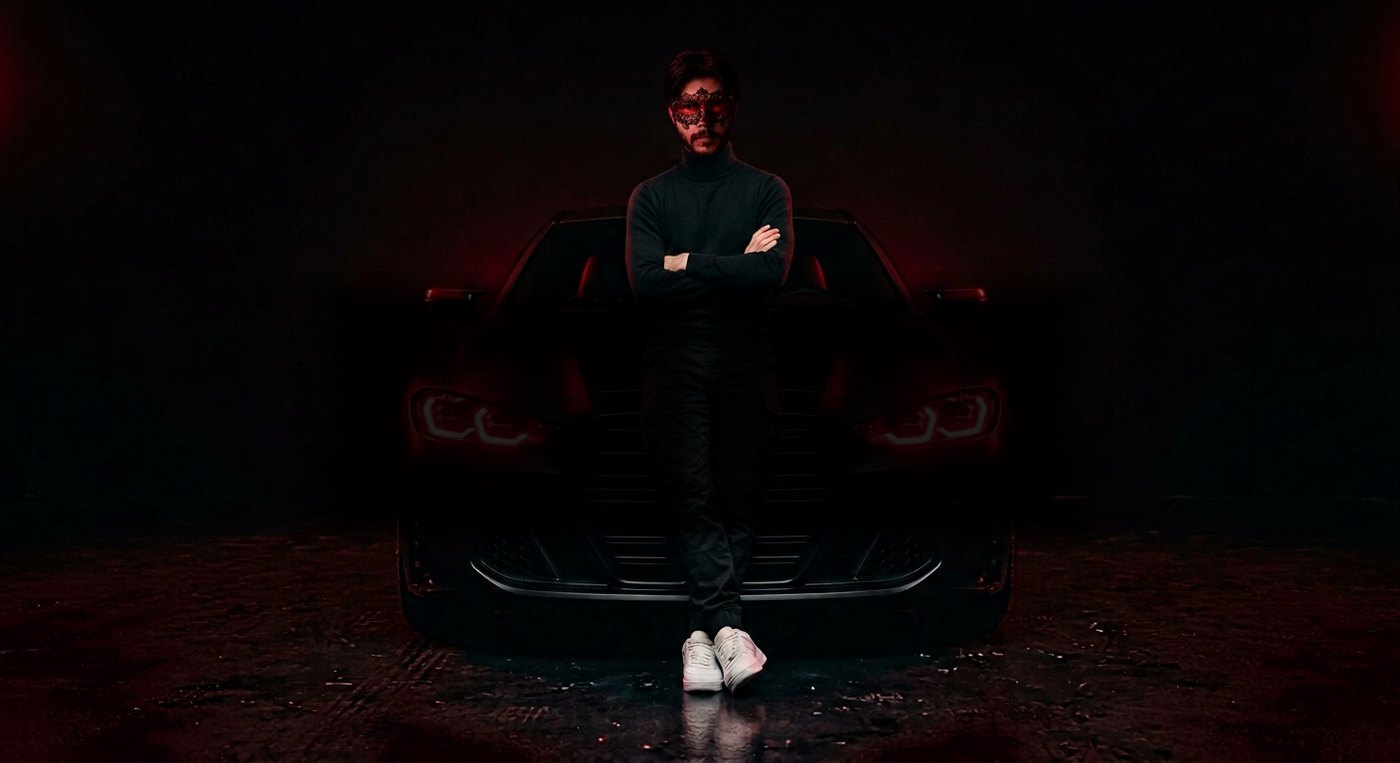
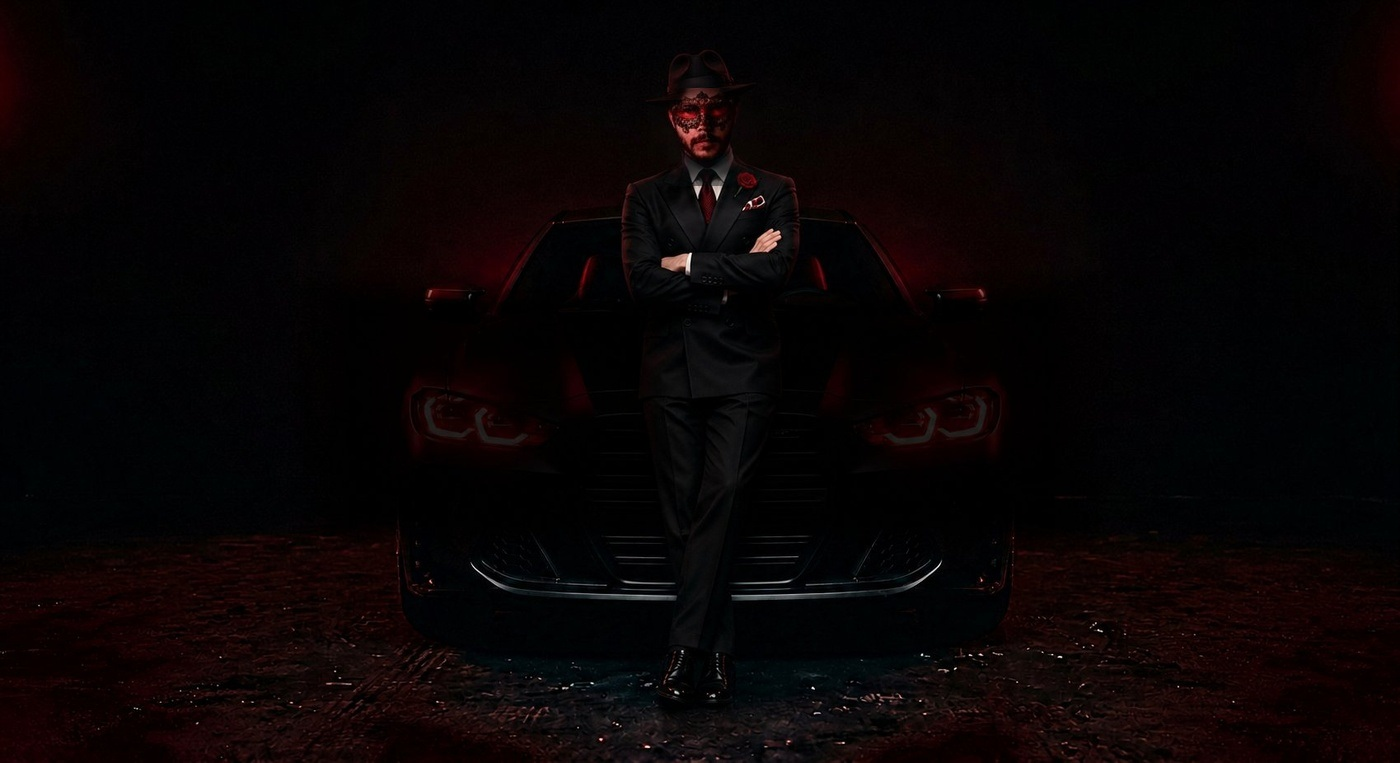
feat(hero): mafia don wardrobe for the BMW portrait
Adil asked for the hero character (leaning on the BMW) in mafia style —
attractive, eye-catching, on-brand red accents — with his FACE kept
exactly as it is.

- full mafia-don treatment via AI photo edit (user picked option 1):
  black felt fedora, black double-breasted suit with satin peaked
  lapels, ivory dress shirt, red silk tie + red pocket square with
  ivory border, red rose boutonniere, knife-creased wool trousers,
  mirror-shine black oxfords
- face (mask, beard, skin) pixel-composited from the ORIGINAL frames —
  zero face drift; both lighting states (lights-off base + .car-on
  ignition overlay) replaced
- alignment found by mask-region NCC matching after luminance-preserving
  rescale to original 1400x763 (off_edit 1699x926 -> 1400x763)
- cache bust ?v=34 -> ?v=35 on both <img> tags

diff --git a/index.html b/index.html
@@ -76,8 +76,8 @@
       <div class="hero-wm" aria-hidden="true"><span class="wm-sub">EST. 2024 — MONARCH</span></div>
       <div class="car-wrap">
         <div class="hero-car">
-          <img src="assets/adil-m4-off.jpg?v=34" alt="" decoding="async">
-          <img class="car-on" src="assets/adil-m4.jpg?v=34" alt="" aria-hidden="true" decoding="async">
+          <img src="assets/adil-m4-off.jpg?v=35" alt="" decoding="async">
+          <img class="car-on" src="assets/adil-m4.jpg?v=35" alt="" aria-hidden="true" decoding="async">
           <span class="hl hl-l" aria-hidden="true"></span><span class="hl hl-r" aria-hidden="true"></span><span class="beam beam-l" aria-hidden="true"></span><span class="beam beam-r" aria-hidden="true"></span><span class="hl-gnd" aria-hidden="true"></span>
           <span class="wm wm-l" aria-hidden="true">MON</span><span class="wm wm-r" aria-hidden="true">ARCH</span>
         </div>
